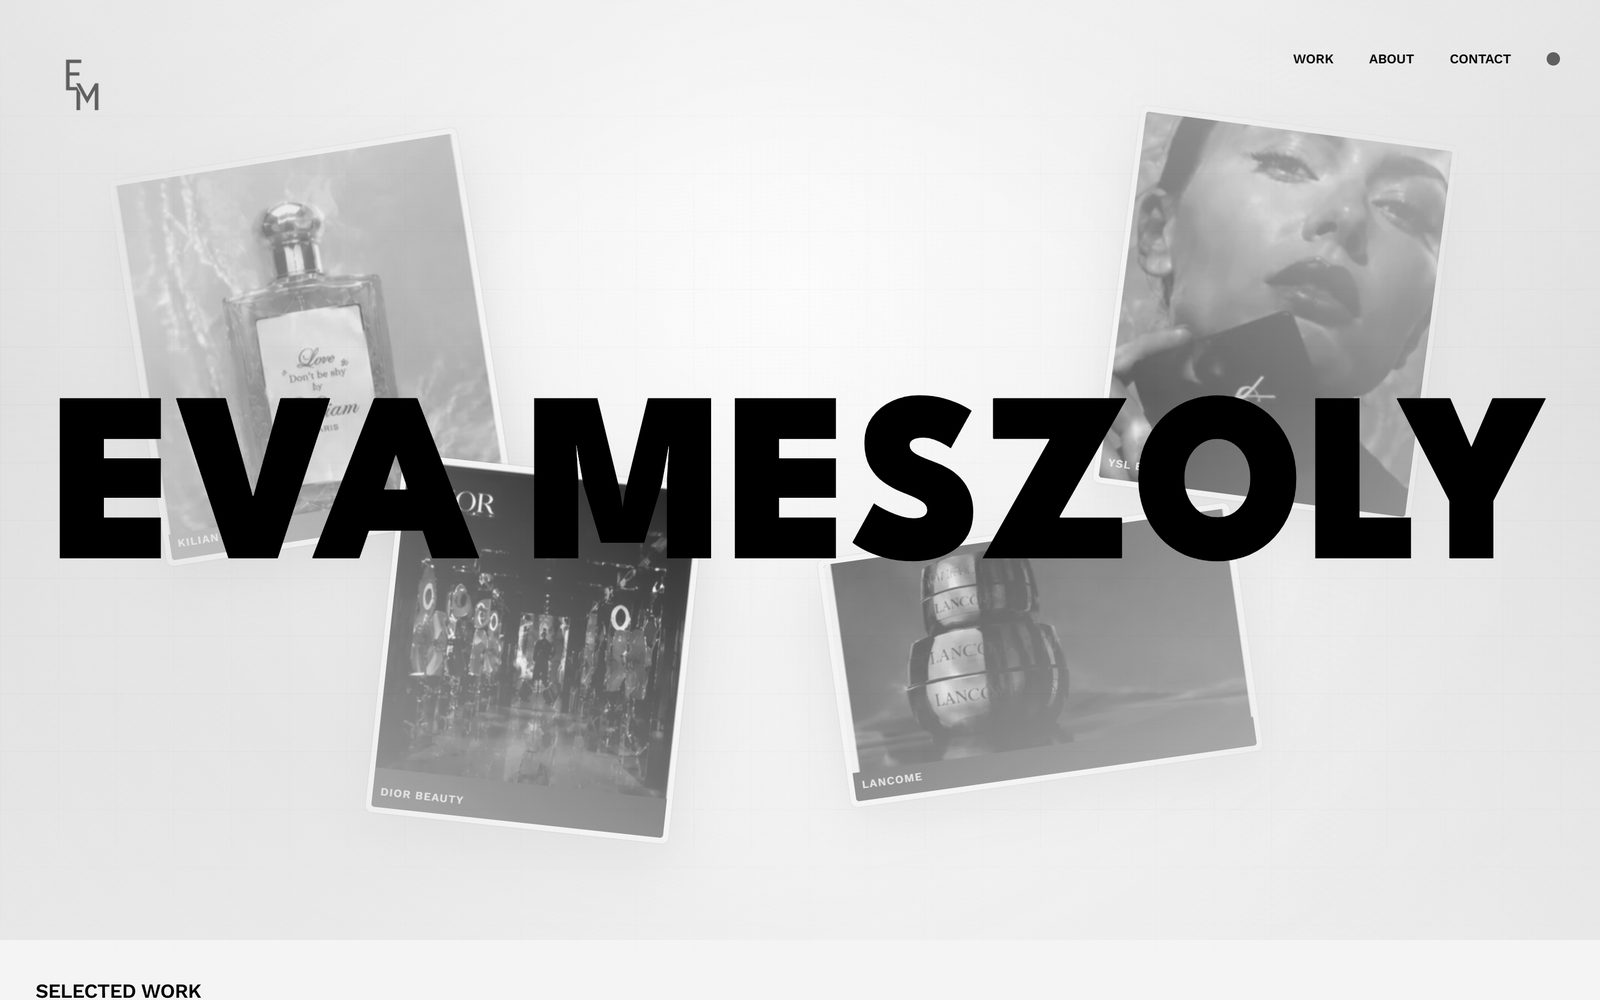
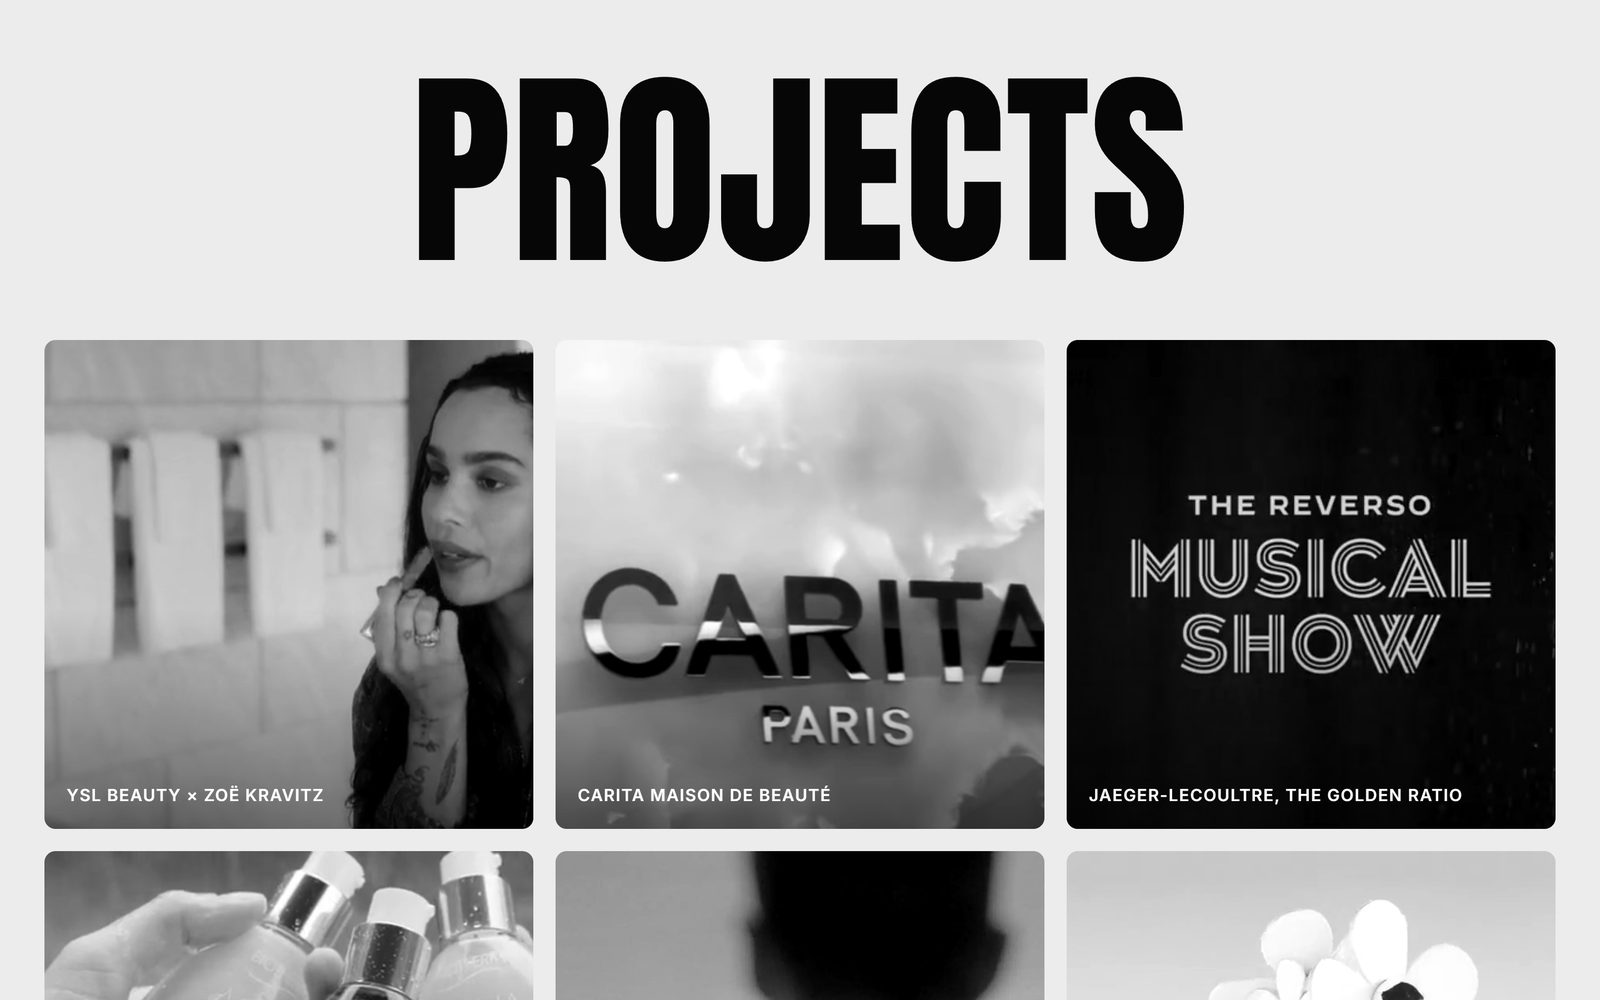
Use the real client sites for every project card
Trends Beauty is a hair-care store, not a salon: the project becomes
Beauty retail, described from what the storefront actually does. Eva's
portfolio points at the v2 deployment and shows its Projects grid. Old
slugs redirect. Screenshots are captured at 2x, converted to the site's
black and white, with cookie bars and chat bubbles removed.

diff --git a/lib/work.ts b/lib/work.ts
@@ -25,20 +25,27 @@ export type ProjectType = {
 
 export const projectTypes: ProjectType[] = [
   {
-    slug: "beauty-salon",
-    title: "Beauty salon",
-    kind: "Website · Bookings · Loyalty Pass",
-    services: ["website-creation", "automated-bookings", "loyalty-pass"],
-    summary: "A salon presence built to be booked, not just admired.",
+    slug: "beauty-retail",
+    title: "Beauty retail",
+    // TO CONFIRM: which systems we actually delivered here beyond the storefront.
+    kind: "Online store · Brand presence · Search",
+    services: ["website-creation", "seo-performance-insights"],
+    summary: "A hair-care store built to be browsed, trusted and reordered.",
     situation:
-      "A salon does careful, high-quality work. Online, that quality needs to be visible at a glance and bookable in a few taps, without the team spending the day on the phone.",
+      "A beauty retailer competes with marketplaces on every product. It needs a storefront that carries the brand, makes a wide catalogue easy to navigate, and turns a first order into a habit.",
     built: [
-      "An editorial website that shows the work and the team first",
-      "Online booking connected to the salon's calendar",
-      "A Loyalty Pass in Apple and Google Wallet for regular clients",
+      "A storefront that leads with the brand, not the product grid",
+      "Catalogue navigation by range, brand and bestsellers",
+      "First-order incentive and newsletter capture",
+      "Search and performance foundations, with local currency and shipping",
     ],
     image: "/images/uploads/tbs-photo-08.jpg",
     alt: "Woman with closed eyes and water droplets suspended around her face, black and white",
+    shots: {
+      url: "https://trendsbeauty.com.au/",
+      desktop: "/images/projects/beauty-retail-desktop.jpg",
+      mobile: "/images/projects/beauty-retail-mobile.jpg",
+    },
   },
   {
     slug: "creative-portfolio",
@@ -56,7 +63,7 @@ export const projectTypes: ProjectType[] = [
     image: "/images/uploads/tbs-photo-06.jpg",
     alt: "Portrait half hidden behind rippled glass, black and white",
     shots: {
-      url: "https://eva-portfolio-seven.vercel.app/",
+      url: "https://eva-meszoly-v2.vercel.app/",
       desktop: "/images/projects/creative-portfolio-desktop.jpg",
       mobile: "/images/projects/creative-portfolio-mobile.jpg",
     },

diff --git a/next.config.ts b/next.config.ts
@@ -16,7 +16,8 @@ const nextConfig: NextConfig = {
       { source: "/careers", destination: "/about", permanent: true },
       { source: "/terms", destination: "/legal", permanent: true },
       // Projects are described by business type, not client name.
-      { source: "/work/trend-beauty", destination: "/work/beauty-salon", permanent: true },
+      { source: "/work/trend-beauty", destination: "/work/beauty-retail", permanent: true },
+      { source: "/work/beauty-salon", destination: "/work/beauty-retail", permanent: true },
       { source: "/work/eva-portfolio", destination: "/work/creative-portfolio", permanent: true },
       { source: "/work/kobble-cottage", destination: "/work/holiday-cottage", permanent: true },
       // Product renamed.

diff --git a/app/work/page.tsx b/app/work/page.tsx
@@ -11,7 +11,7 @@ import { projectTypes } from "../../lib/work";
 export const metadata: Metadata = {
   title: "Projects",
   description:
-    "The kinds of businesses we build for and what each one gets: a beauty salon, a creative portfolio, a holiday cottage. Website, bookings, Loyalty Pass, follow-up.",
+    "The kinds of businesses we build for and what each one gets: beauty retail, a creative portfolio, a holiday cottage. Websites, Loyalty Pass, bookings and follow-up.",
 };
 
 export default function ProjectsPage() {

diff --git a/app/page.tsx b/app/page.tsx
@@ -95,7 +95,7 @@ export default function Home() {
               Built for<br />businesses like yours.
             </h2>
           </div>
-          <p>A salon, a creative, a holiday cottage: three kinds of business we have built for, and what each one gets.</p>
+          <p>A beauty retailer, a creative, a holiday cottage: three kinds of business we have built for, and what each one gets.</p>
         </div>
         <ul className="cases">
           {projectTypes.map((item, index) => (
